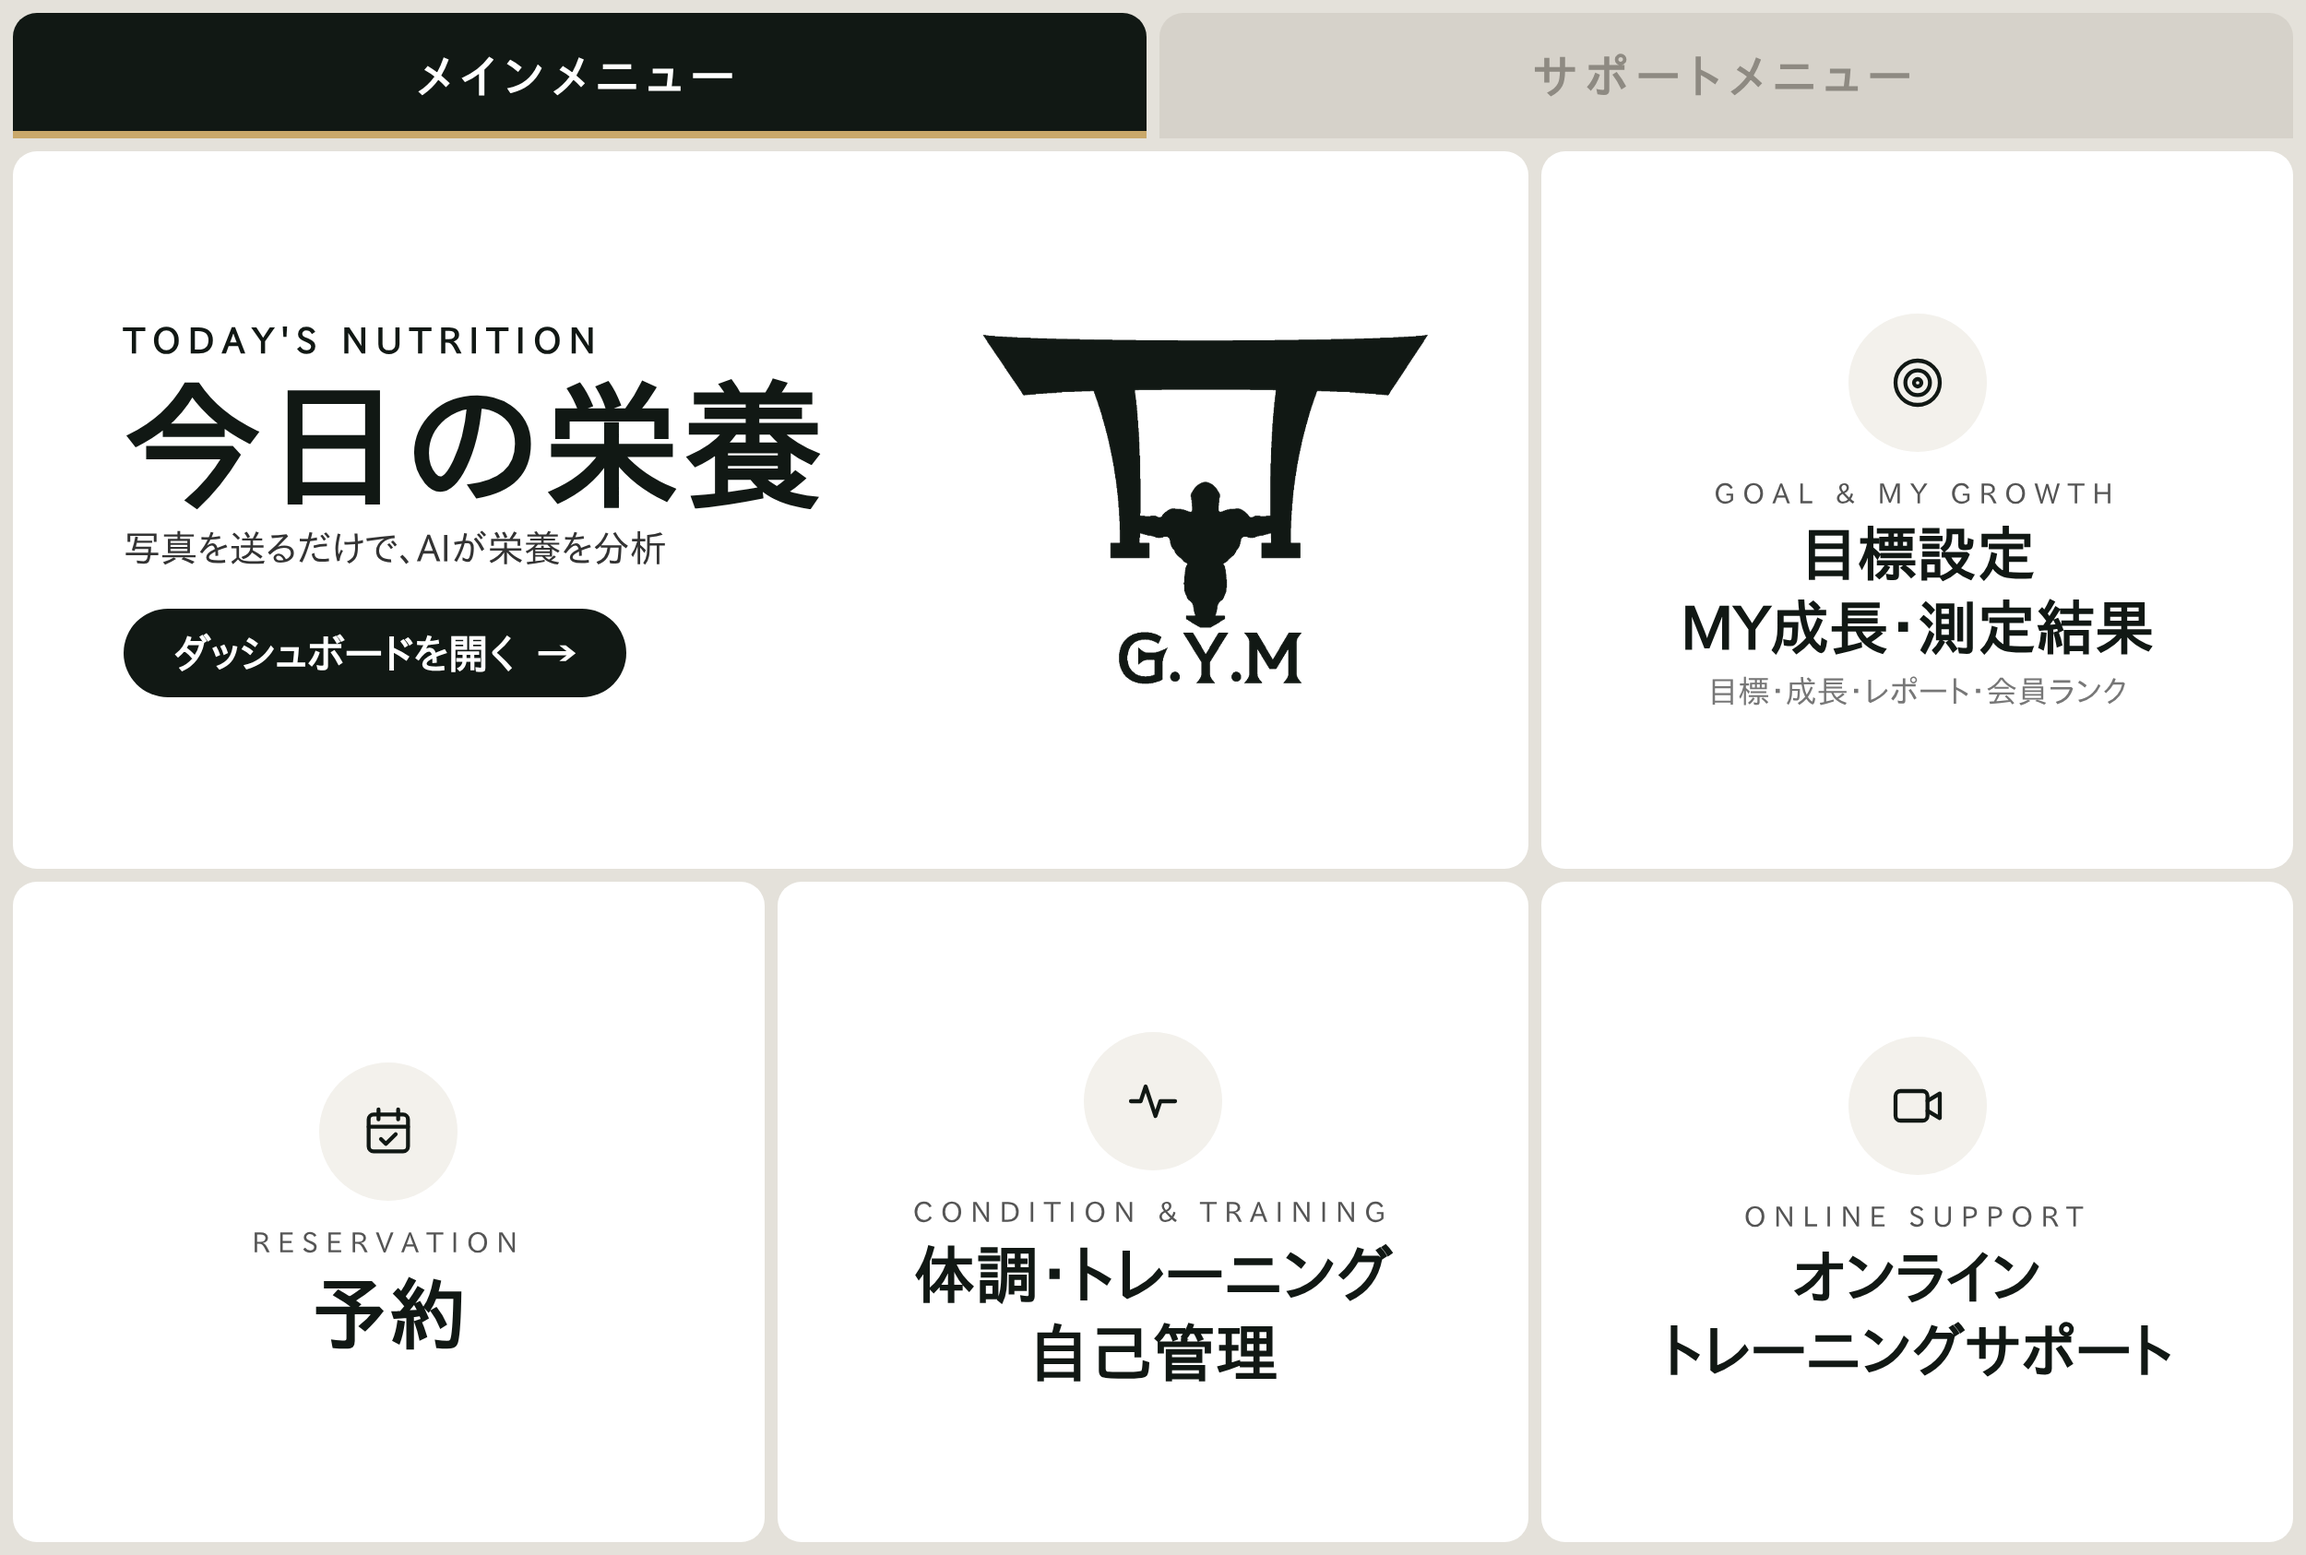
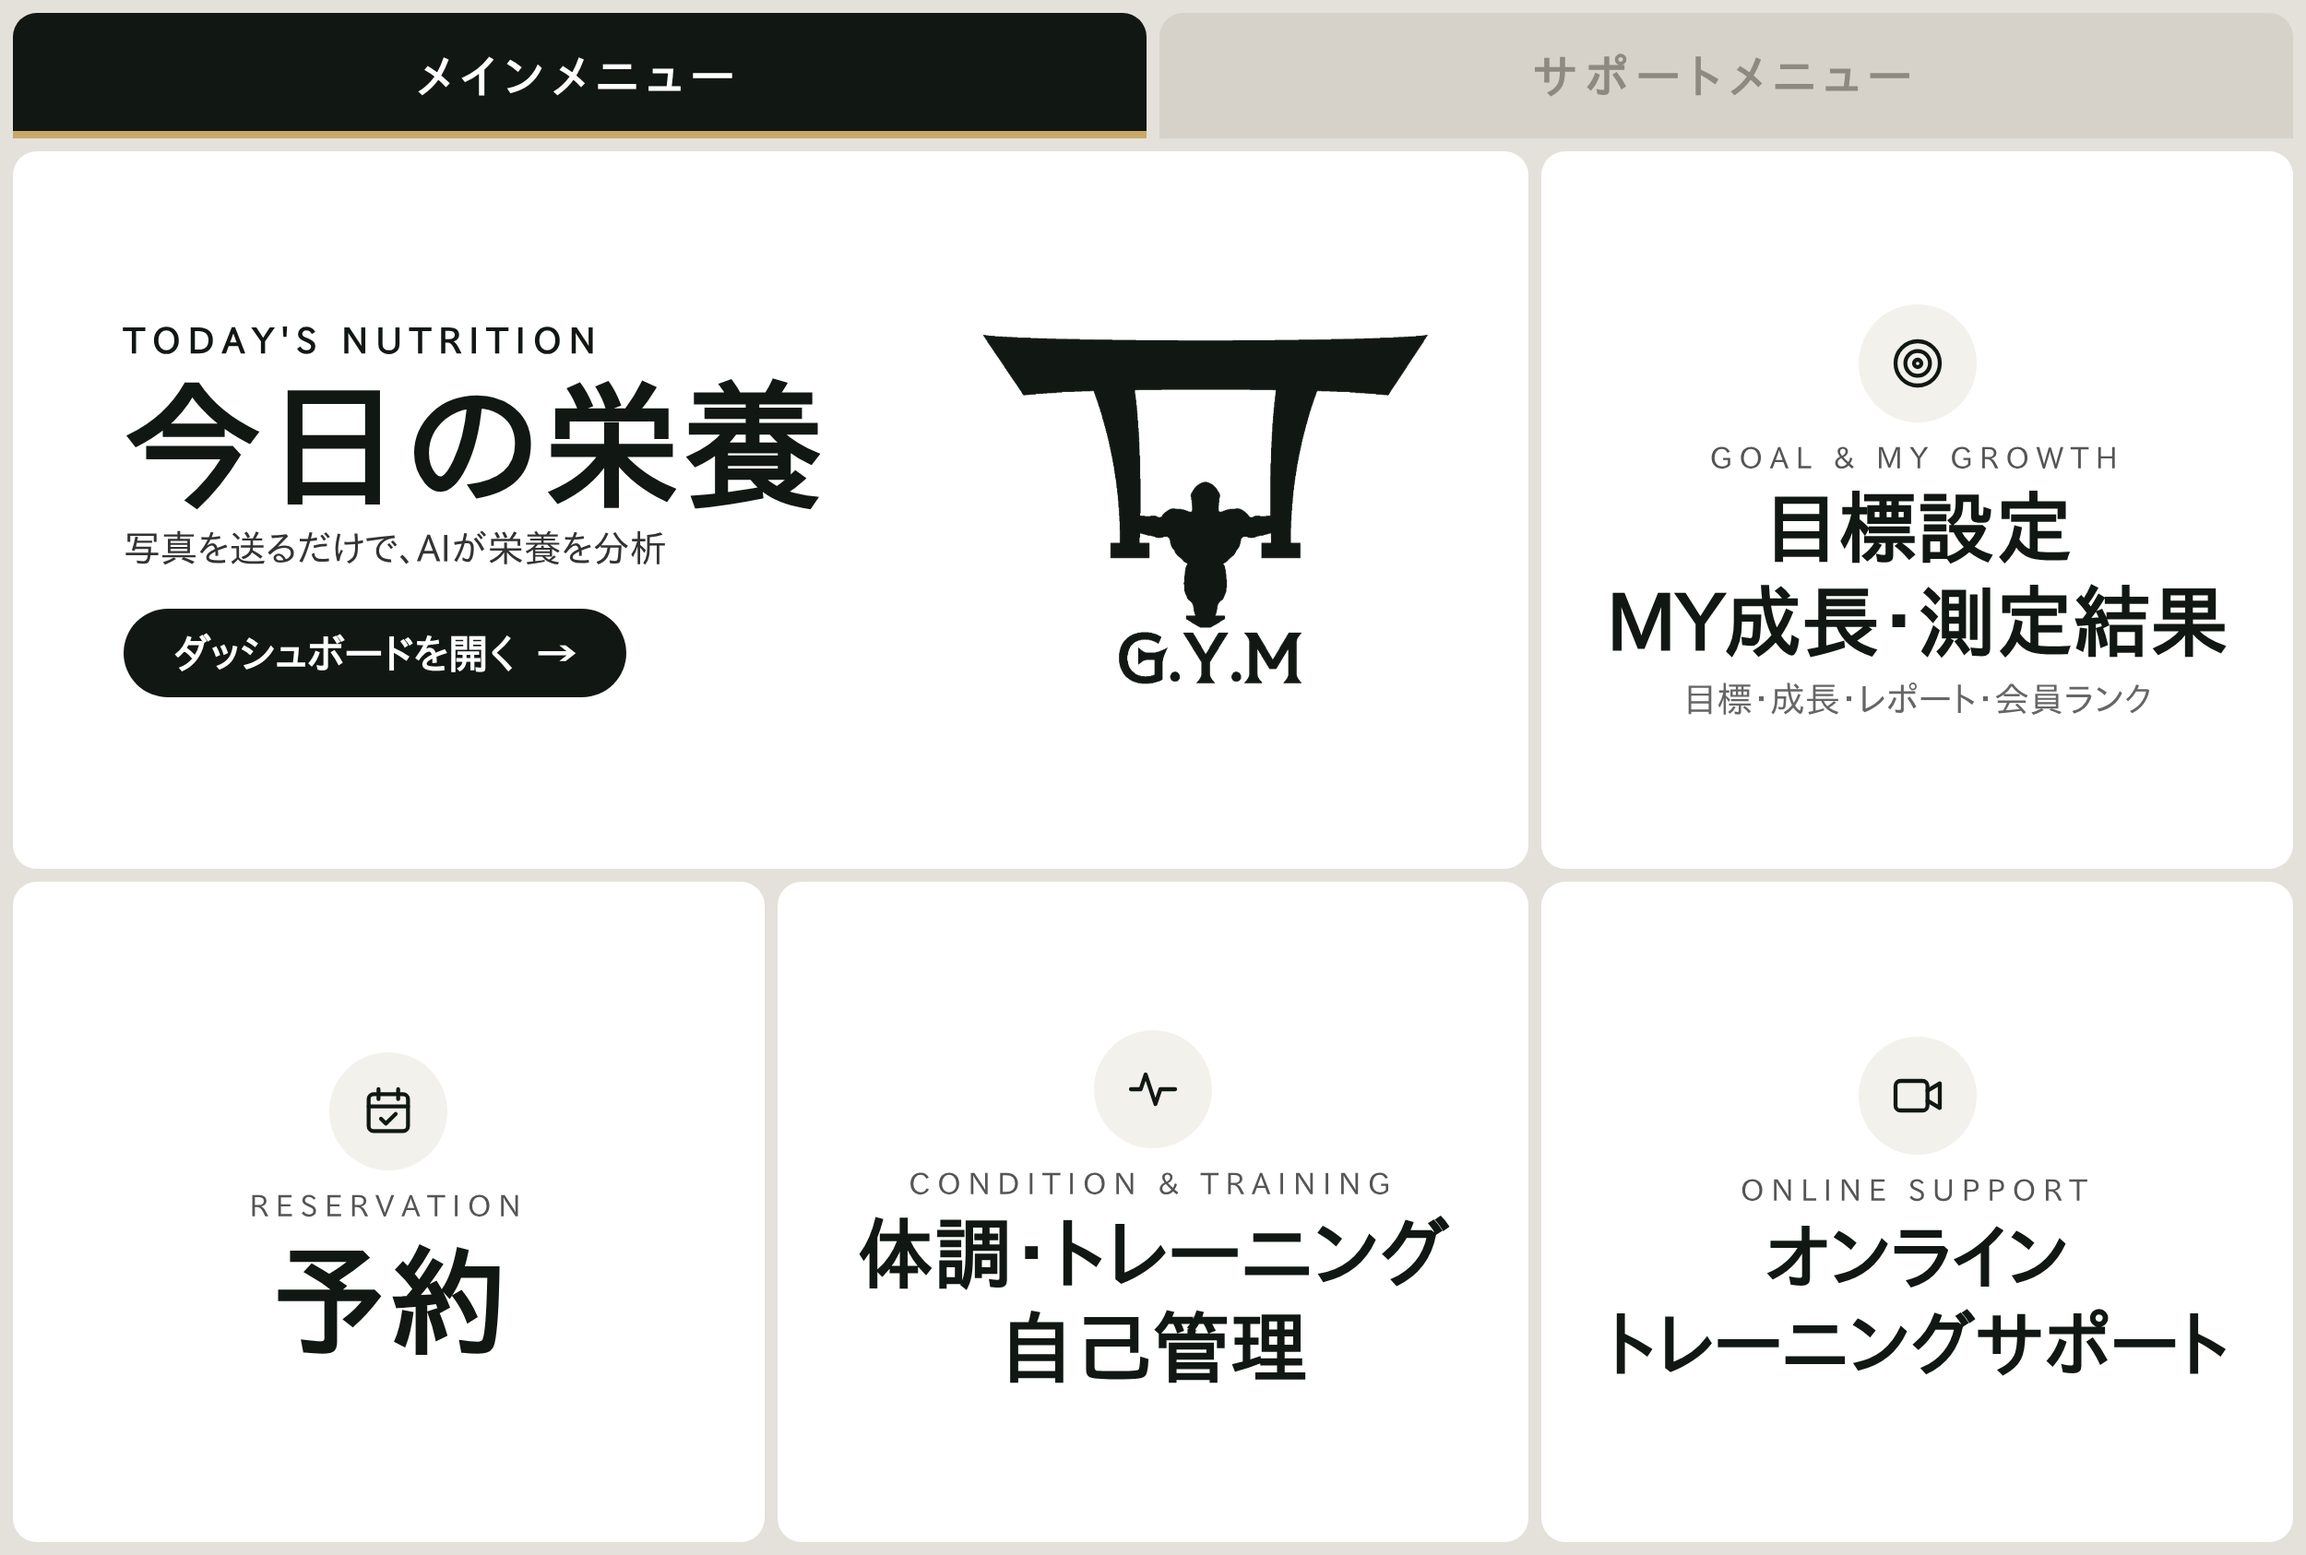
リッチメニューの文字を大きく（押しやすく、見やすく）
- 各タイルの文字を約1.2〜1.5倍に（予約128px、レシピ・おすすめ店112px、目標設定・体調84px など）
- ビフォーアフターは2行に、アイコンを少し小さくして文字に場所を回す
- RICHMENU_VERSION を上げたので、本番反映後に最初にダッシュボードを開いたときに自動で入れ替わる

Claude-Session: https://claude.ai/code/session_01NU1f8FhY6Up6FmWacDNM48

diff --git a/api/_lib/richmenuAuto.js b/api/_lib/richmenuAuto.js
@@ -8,7 +8,7 @@ import { kvGet, kvSet } from "./nutri.js";
 import { setupRichMenu } from "./richmenu.js";
 import { LIFF_ID } from "../../src/lineConfig.js";
 
-export const RICHMENU_VERSION = "2026-10-28-goal-growth-items";
+export const RICHMENU_VERSION = "2026-10-29-larger-text";
 
 const parse = raw => { try { return raw ? JSON.parse(raw) : null; } catch (e) { return null; } };
 const clean = v => (/^https?:\/\/\S+$/.test(String(v || "").trim()) ? String(v).trim() : "");
